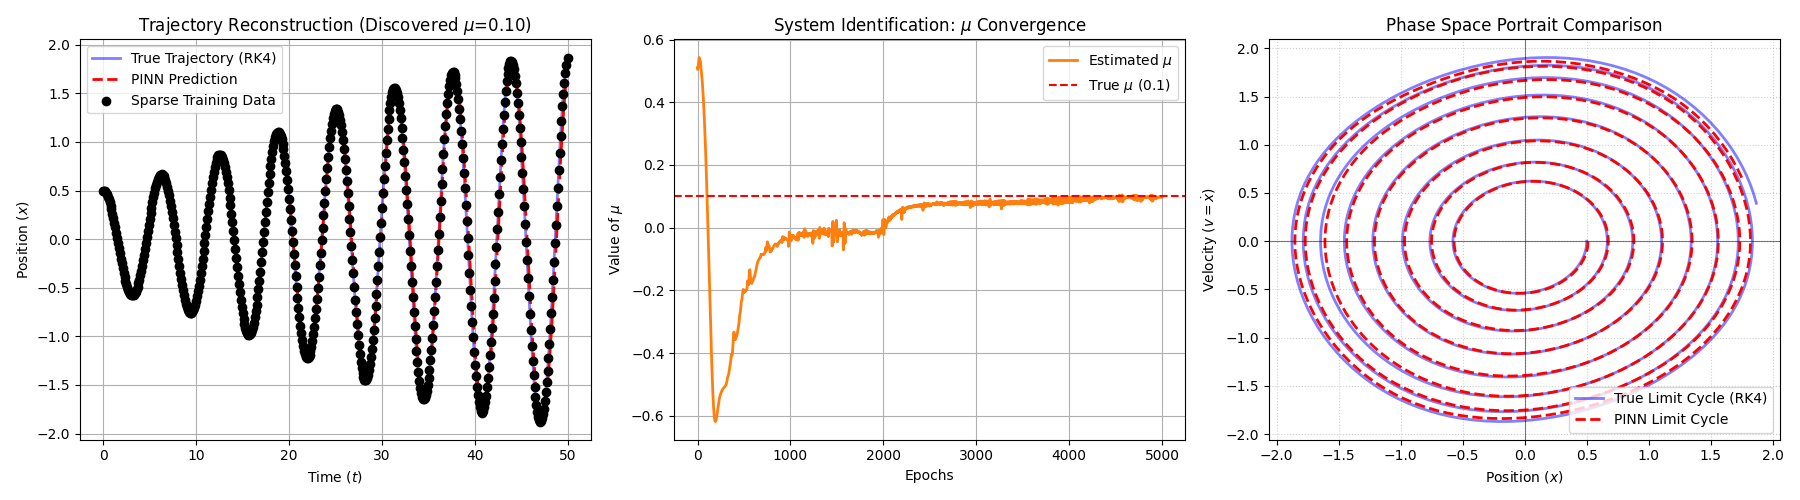
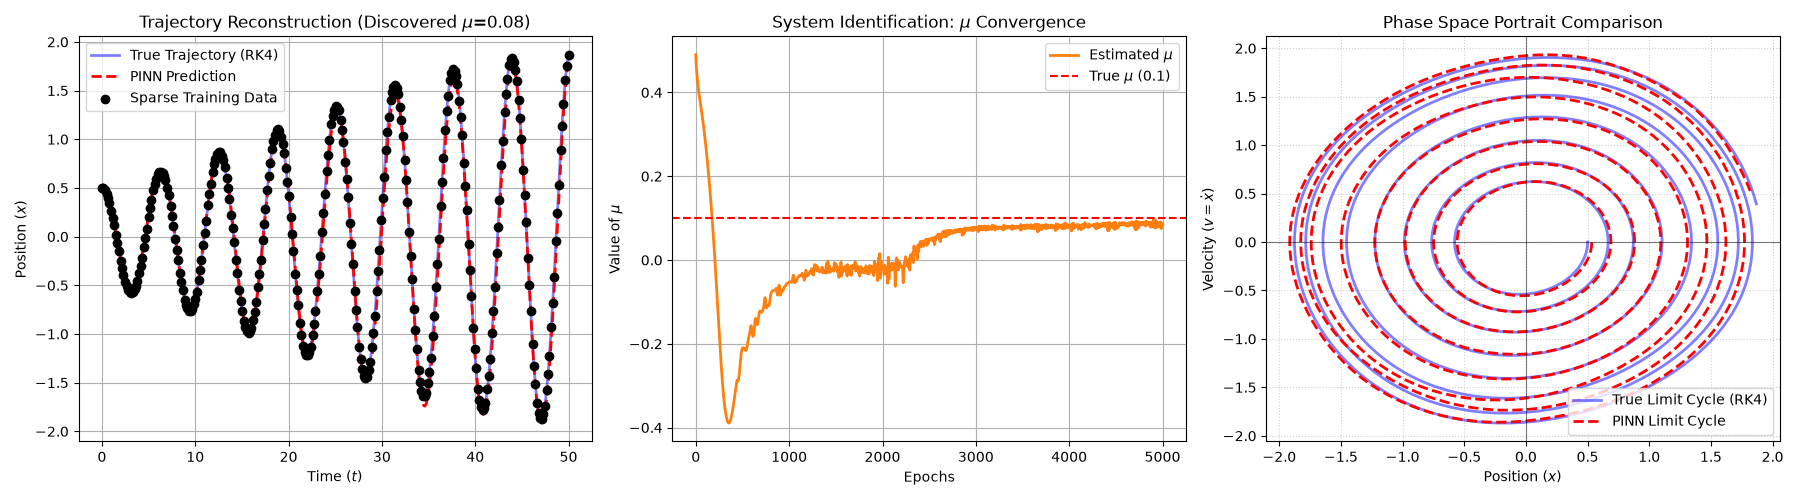
Lessen training data , increase collocation points

diff --git a/vdp_ip/main.py b/vdp_ip/main.py
@@ -28,7 +28,7 @@ def main ():
     """
     Feed into PINN
     """
-    TRAINING_POINTS = 500
+    TRAINING_POINTS = 300
     COLLOCATION_POINTS = 10000
     random_points = np.linspace(0, len(t_timedata)-1, TRAINING_POINTS).astype(int)
 